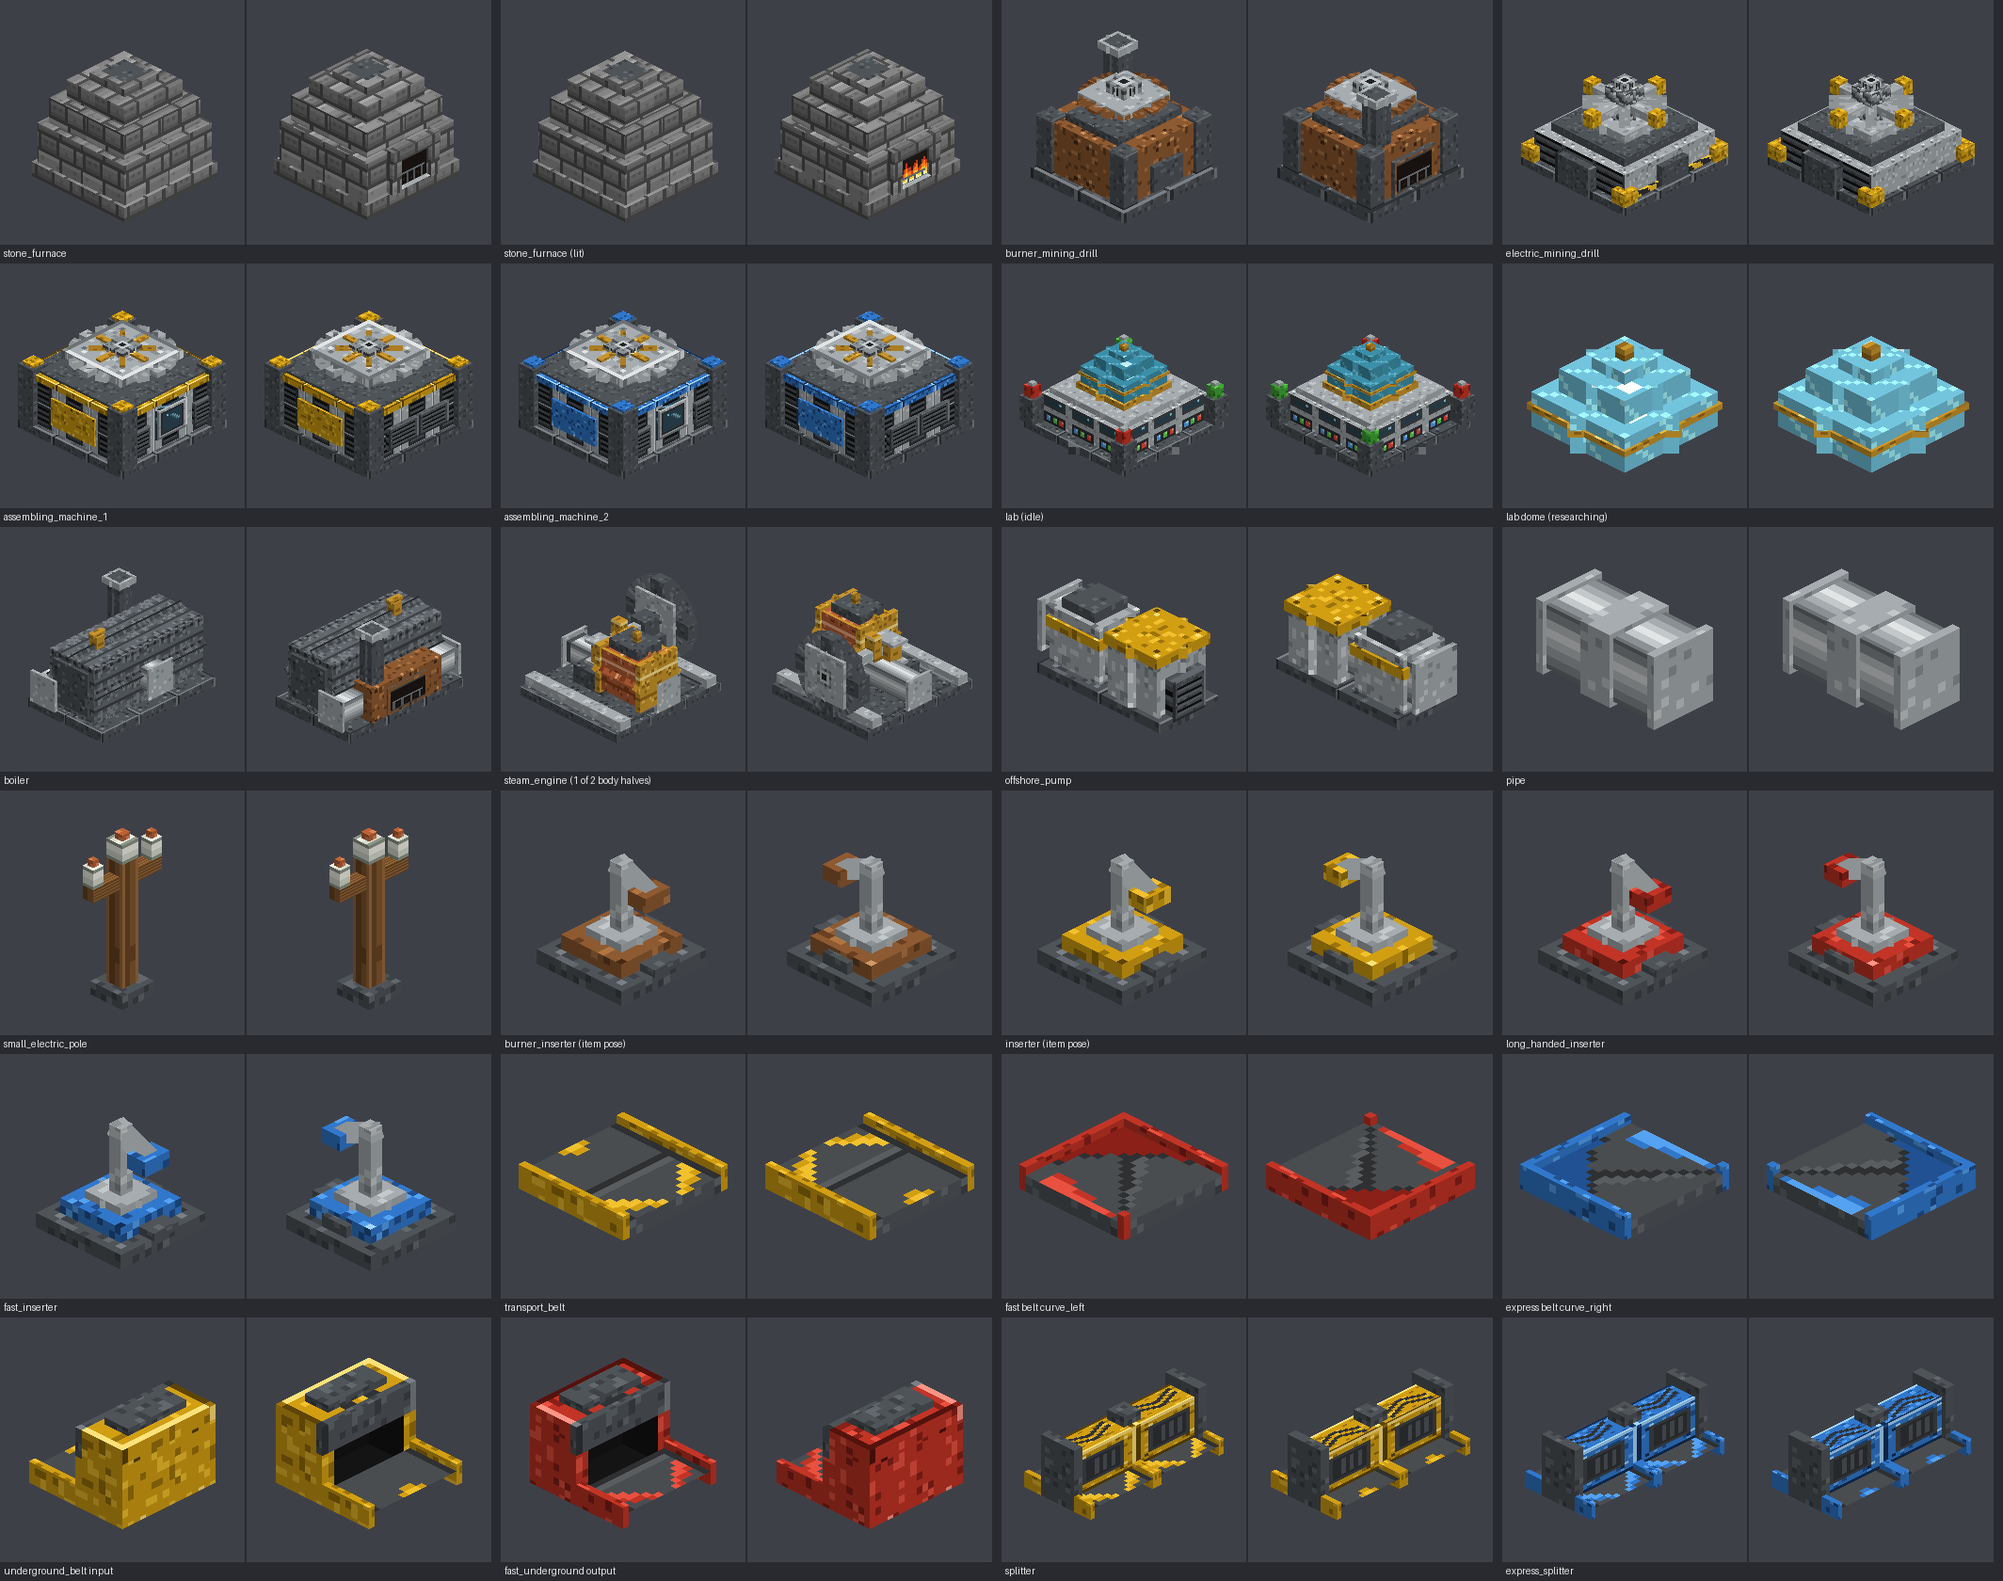
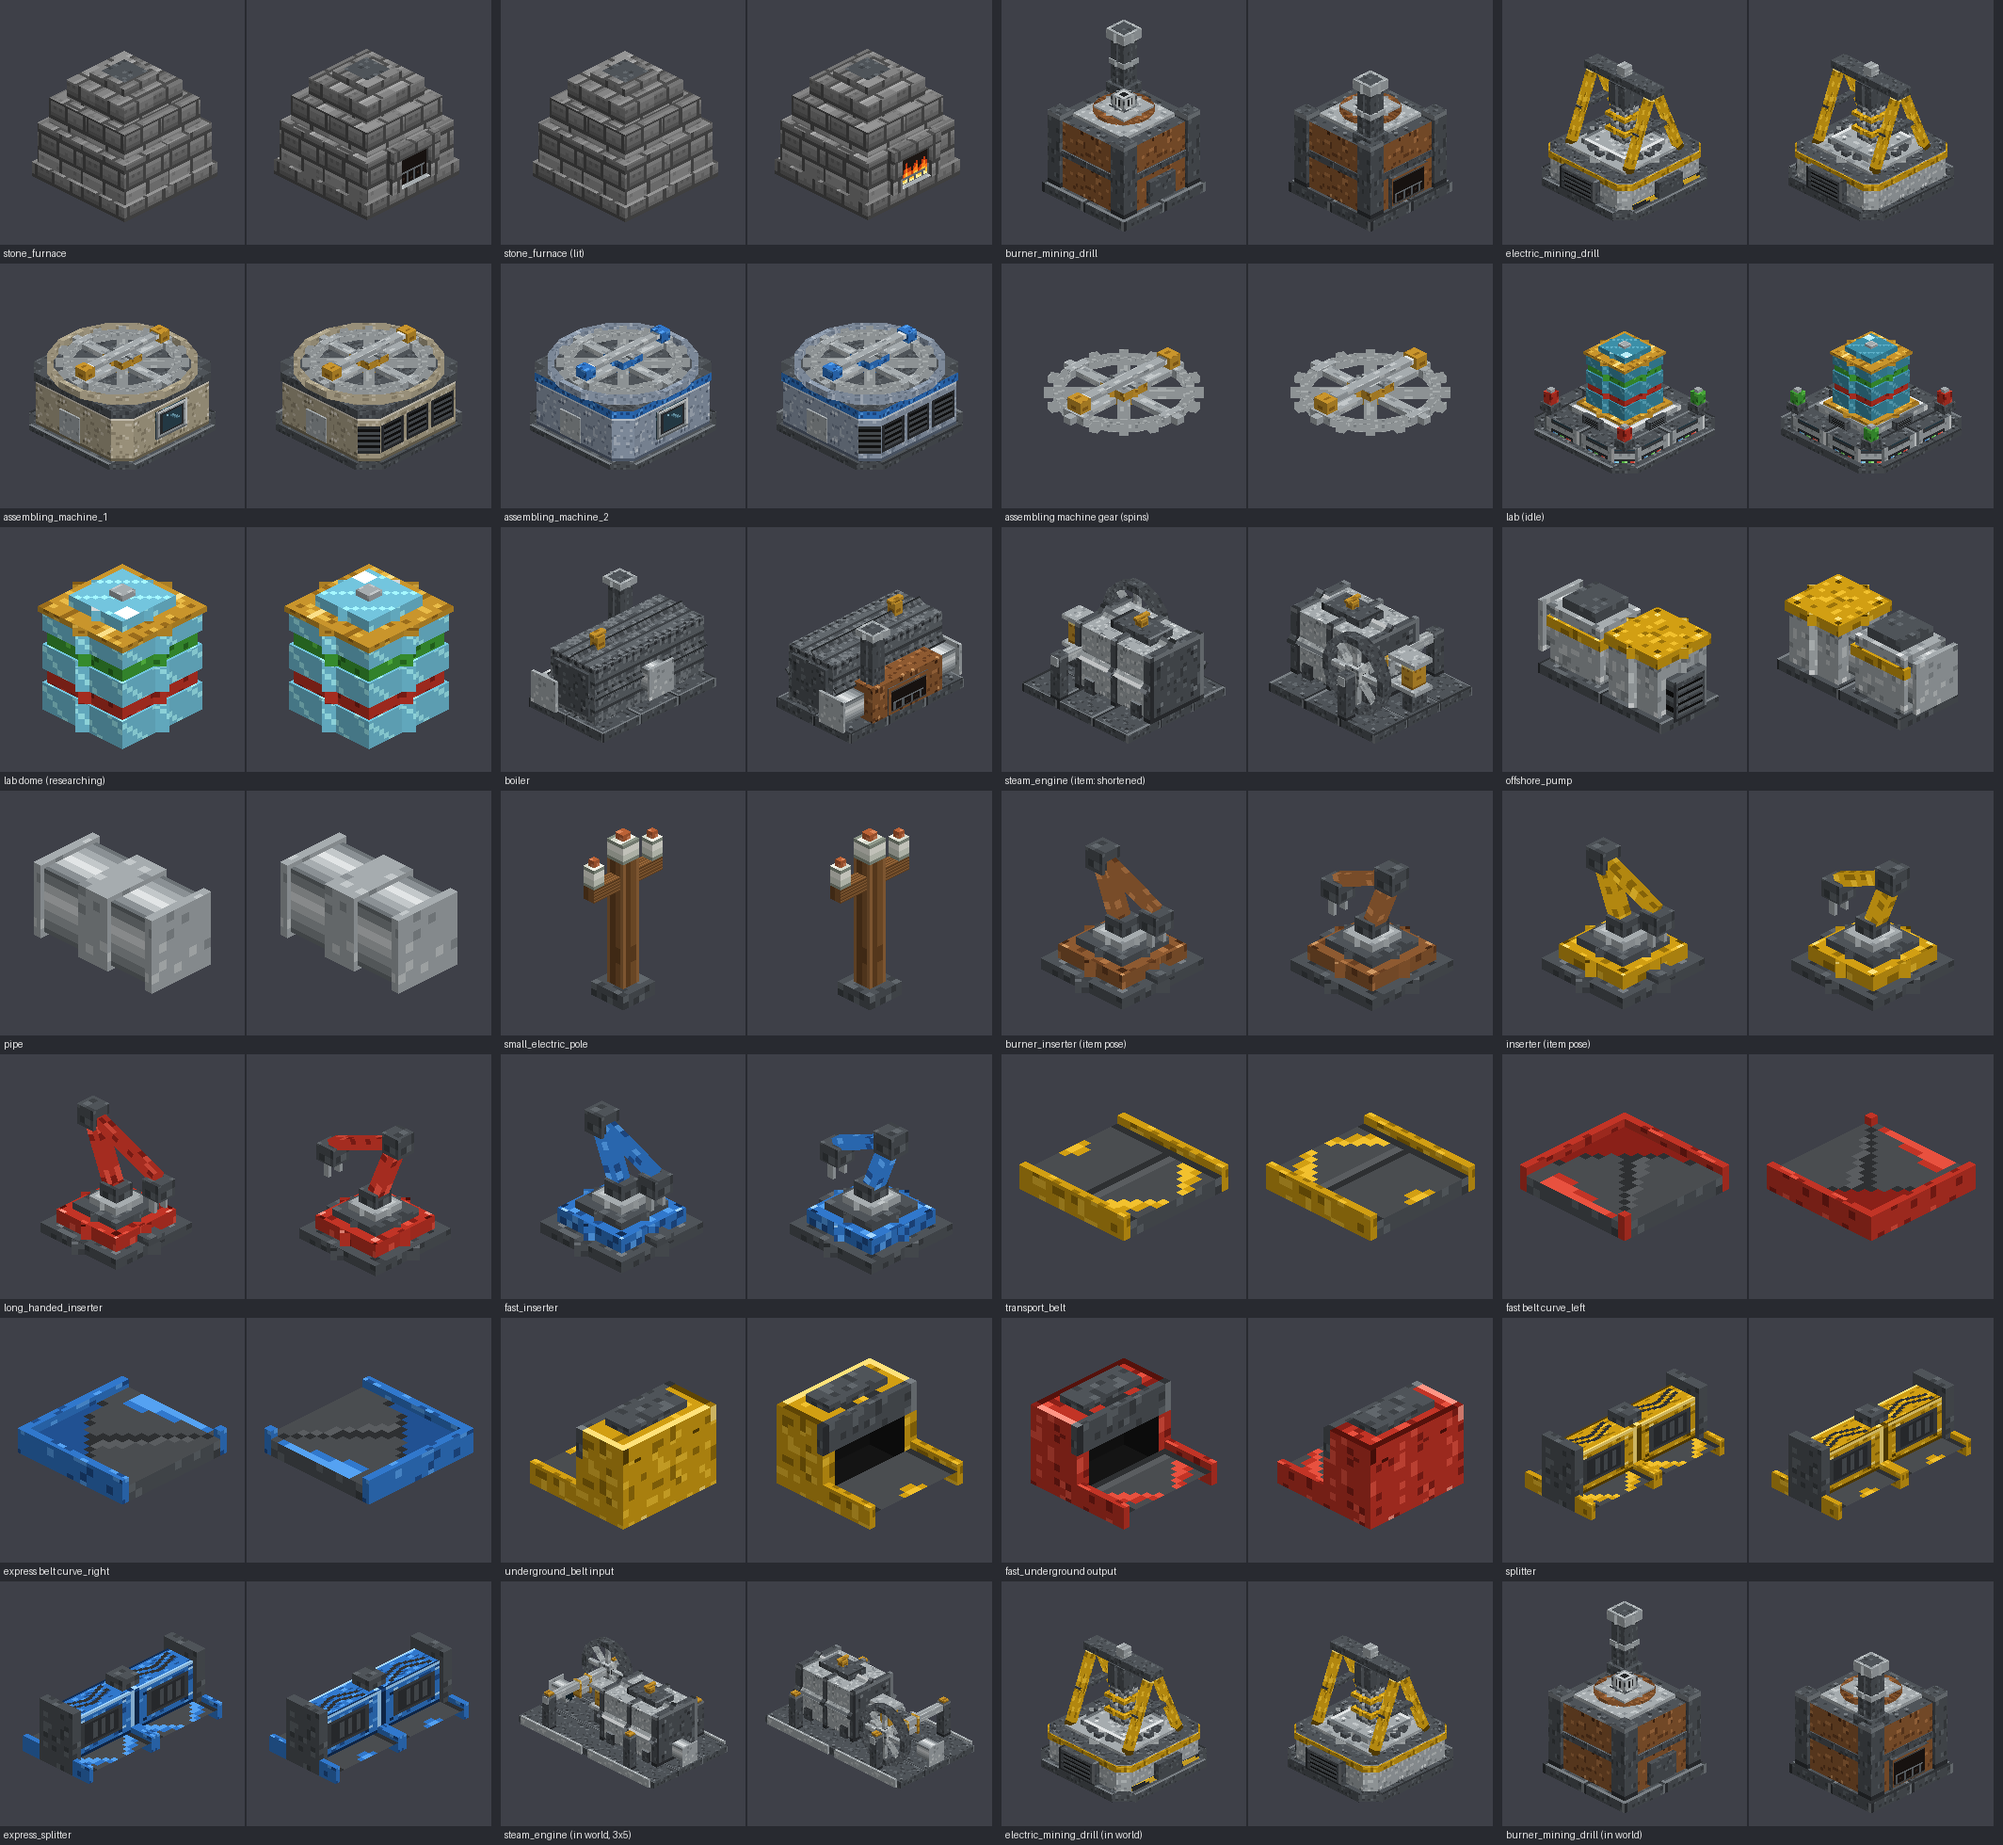
art: preview assembled multi-part machines
render_models.py also draws the steam engine and both mining drills as their
block entity renderers assemble them; regenerated models-preview.png.

diff --git a/art/render_models.py b/art/render_models.py
@@ -161,6 +161,56 @@ def render(elements, tex, yaw, pitch=-30, size=260, extent=None):
     return Image.fromarray(np.clip(img, 0, 255).astype(np.uint8))
 
 
+def placed(rl, dx=0, dy=0, dz=0, turn=False):
+    """Elements of a model with absolute texture refs, shifted and then optionally turned 180 degrees about
+    the footprint center (x = z = 8), as a block entity renderer draws a part."""
+    els, tex = resolve(rl)
+    out = []
+    for el in els:
+        e = json.loads(json.dumps(el))
+        f = [e["from"][0] + dx, e["from"][1] + dy, e["from"][2] + dz]
+        t = [e["to"][0] + dx, e["to"][1] + dy, e["to"][2] + dz]
+        if e.get("rotation"):
+            o = e["rotation"]["origin"]
+            e["rotation"]["origin"] = [o[0] + dx, o[1] + dy, o[2] + dz]
+        if turn:
+            f, t = [16 - t[0], f[1], 16 - t[2]], [16 - f[0], t[1], 16 - f[2]]
+            r = e.get("rotation")
+            if r:
+                o = r["origin"]
+                r["origin"] = [16 - o[0], o[1], 16 - o[2]]
+                if r["axis"] != "y":
+                    r["angle"] = -r["angle"]
+        e["from"], e["to"] = f, t
+        for fd in e.get("faces", {}).values():
+            ref = fd.get("texture", "#missing")
+            seen = 0
+            while ref.startswith("#") and seen < 10:
+                ref = tex.get(ref[1:], "missing")
+                seen += 1
+            fd["texture"] = ref
+        if turn:
+            fs = e.get("faces", {})
+            swap = {"north": "south", "south": "north", "east": "west", "west": "east"}
+            e["faces"] = {swap.get(k, k): v for k, v in fs.items()}
+        out.append(e)
+    return out
+
+
+# whole machines as their block entity renderers draw them (in-world size, not the item)
+COMPOSITE_ENTRIES = [
+    ("steam_engine (in world, 3x5)", lambda: placed("minetorio:block/steam_engine_body", dz=-16)
+     + placed("minetorio:block/steam_engine_body", dz=-16, turn=True)
+     + placed("minetorio:block/steam_engine_center", dz=-8) + placed("minetorio:block/steam_engine_piston", dz=-8)
+     + placed("minetorio:block/steam_engine_flywheel", dz=24)),
+    ("electric_mining_drill (in world)", lambda: placed("minetorio:block/electric_mining_drill_body")
+     + placed("minetorio:block/electric_mining_drill_head") + placed("minetorio:block/electric_mining_drill_tower", dy=16)),
+    ("burner_mining_drill (in world)", lambda: placed("minetorio:block/burner_mining_drill")
+     + placed("minetorio:block/burner_mining_drill_head", 8, 0, -8)
+     + placed("minetorio:block/burner_mining_drill_chimney", 8, 16, -8)),
+]
+
+
 def bounds(elements):
     lo = np.array([min(e["from"][i] for e in elements) for i in range(3)], float)
     hi = np.array([max(e["to"][i] for e in elements) for i in range(3)], float)
@@ -174,10 +224,11 @@ ENTRIES = [
     ("minetorio:item/electric_mining_drill", "electric_mining_drill"),
     ("minetorio:item/assembling_machine_1", "assembling_machine_1"),
     ("minetorio:item/assembling_machine_2", "assembling_machine_2"),
+    ("minetorio:block/assembling_machine_1_gear", "assembling machine gear (spins)"),
     ("minetorio:item/lab", "lab (idle)"),
     ("minetorio:block/lab_dome", "lab dome (researching)"),
     ("minetorio:item/boiler", "boiler"),
-    ("minetorio:item/steam_engine", "steam_engine (1 of 2 body halves)"),
+    ("minetorio:item/steam_engine", "steam_engine (item: shortened)"),
     ("minetorio:item/offshore_pump", "offshore_pump"),
     ("minetorio:item/pipe", "pipe"),
     ("minetorio:block/small_electric_pole", "small_electric_pole"),
@@ -198,13 +249,14 @@ if __name__ == "__main__":
     S = 260
     cols = 4
     font = ImageFont.load_default()
-    rows = (len(ENTRIES) + cols - 1) // cols
+    entries = [(lambda rl=rl: resolve(rl), label) for rl, label in ENTRIES] +               [(lambda f=f: (f(), {}), label) for label, f in COMPOSITE_ENTRIES]
+    rows = (len(entries) + cols - 1) // cols
     sheet = Image.new("RGB", (cols * (2 * S + 12), rows * (S + 20)), (40, 42, 48))
     d = ImageDraw.Draw(sheet)
-    for i, (rl, label) in enumerate(ENTRIES):
-        els, tex = resolve(rl)
+    for i, (load, label) in enumerate(entries):
+        els, tex = load()
         if not els:
-            print("no elements:", rl)
+            print("no elements:", label)
             continue
         ext = bounds(els)
         x = (i % cols) * (2 * S + 12)

diff --git a/art/README.md b/art/README.md
@@ -9,7 +9,7 @@ downscaled diffusion output at 16×16.
 | `gen.py` | Flat 16×16 item icons in `art/item/`. Copies the 11 material/tool icons the mod uses into `textures/item/` and writes `preview.png`. Its old `art/block/` tiles are kept for reference only. |
 | `gen_blocks.py` | All block textures in `src/main/resources/assets/minetorio/textures/block/` (plus `.mcmeta` for animated strips) and `blocks-preview.png`. |
 | `gen_models.py` | All block and item JSON models in `models/{block,item}/`: Create-style multi-element machines, belts, pipes, poles and inserters, plus fitted item display transforms for the multiblocks. |
-| `render_models.py` | `models-preview.png`: an offline isometric render of every model (two views each) for checking shapes without the game. |
+| `render_models.py` | `models-preview.png`: an offline isometric render of every model (two views each) for checking shapes without the game, plus the multi-part machines (steam engine, mining drills) assembled as their block entity renderers draw them. |
 
 Order: `python art/gen_blocks.py && python art/gen_models.py && python art/render_models.py`
 
